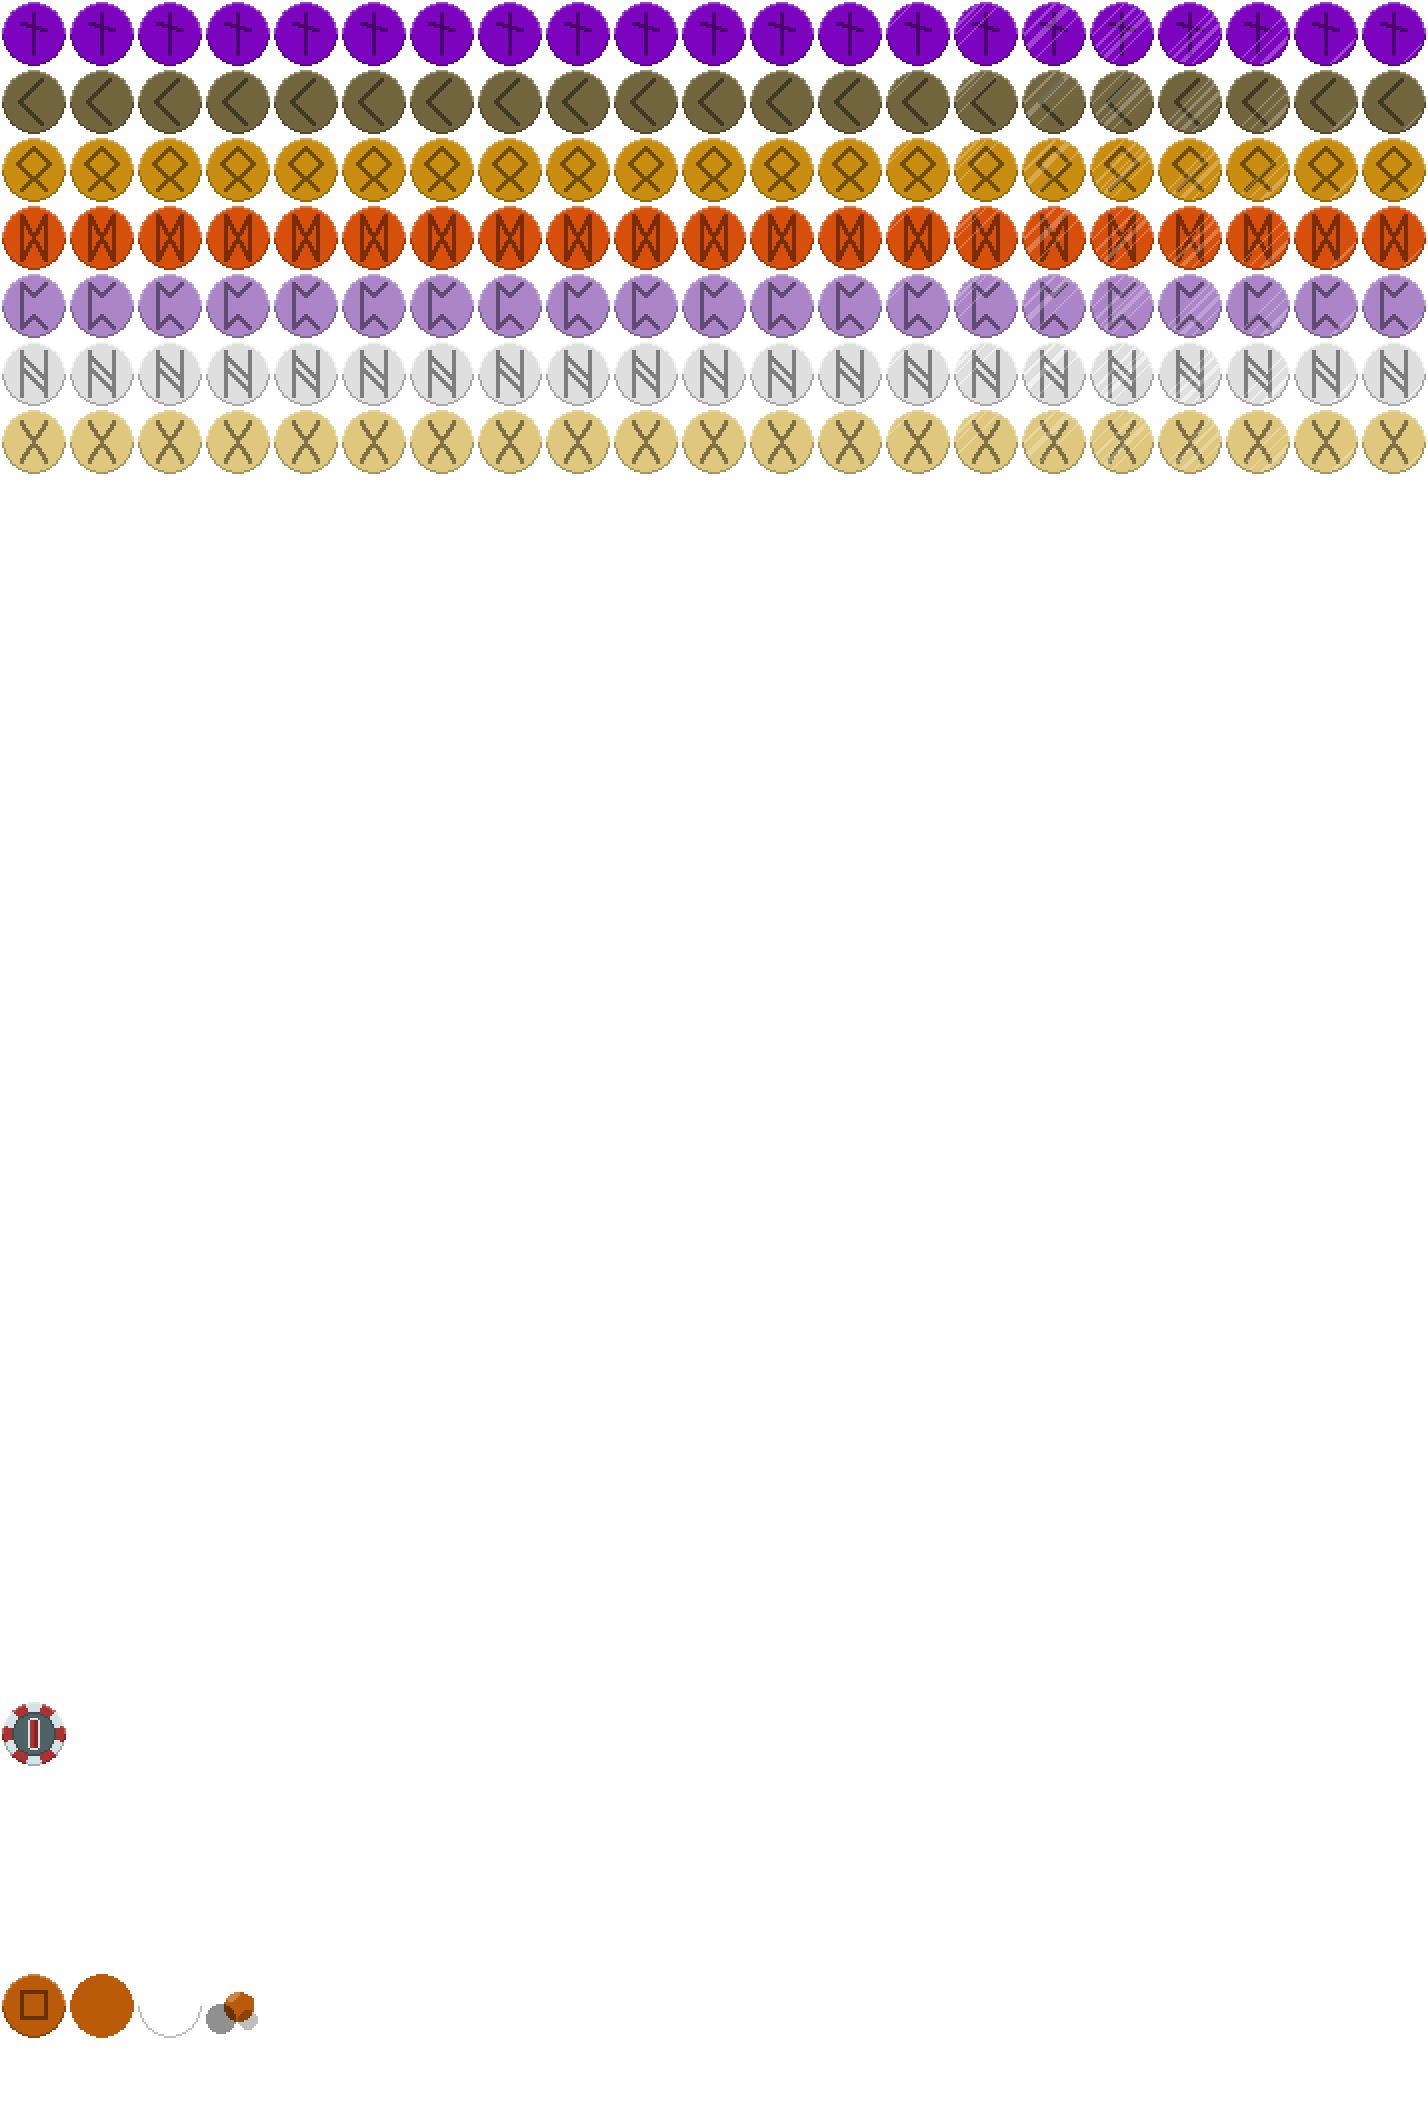
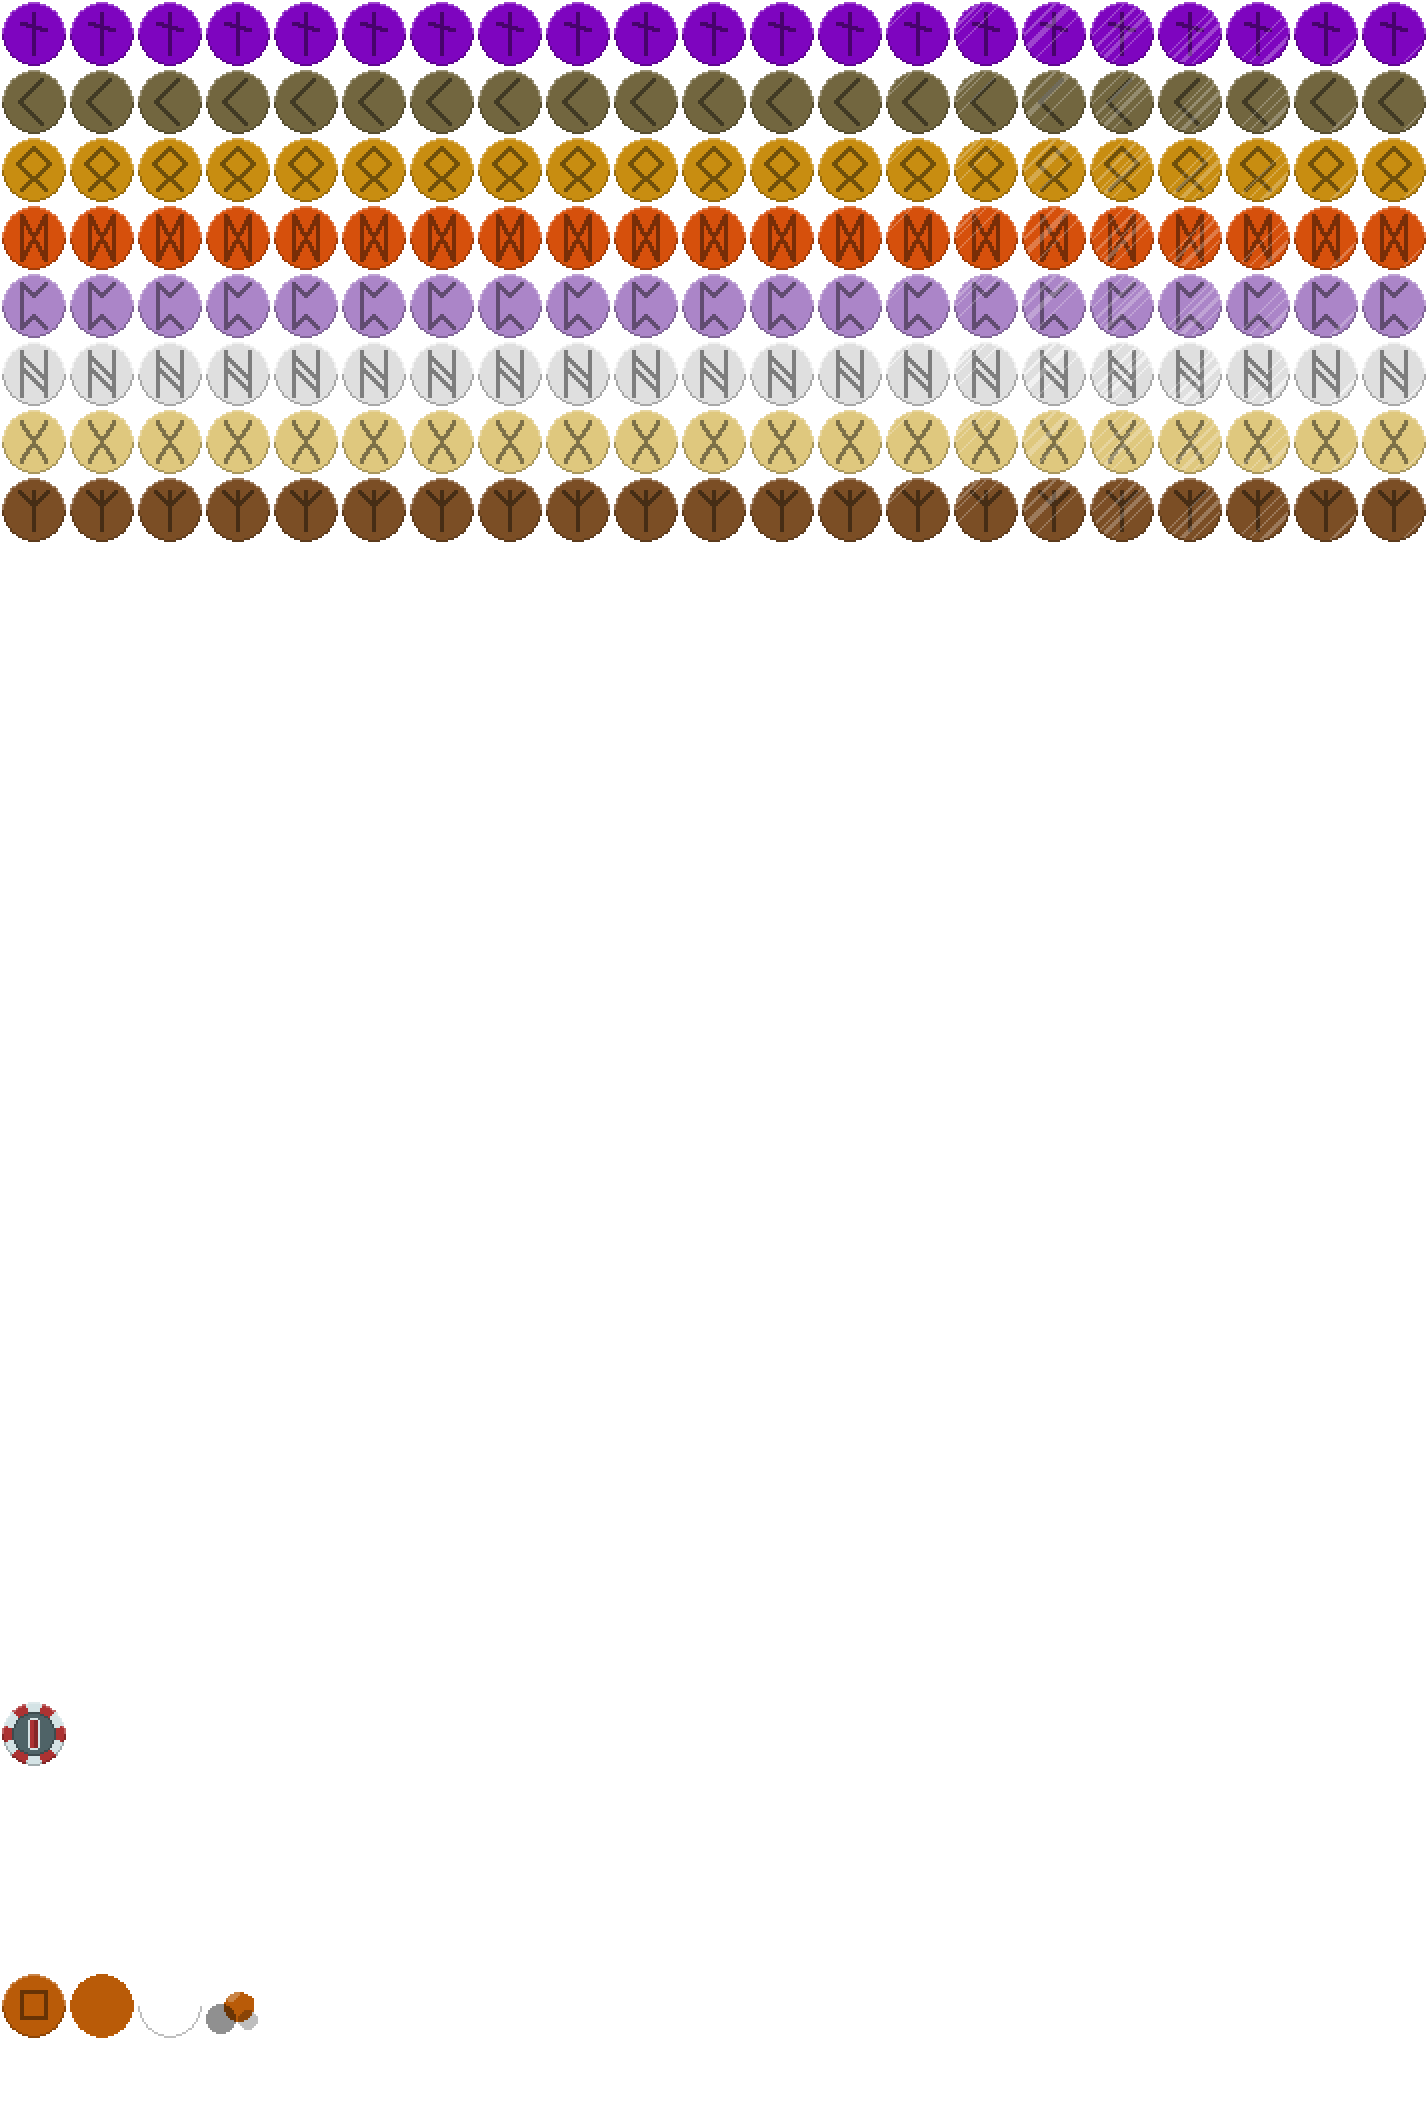
Add the Elk

Changed region(s): [[0.0, 0.2158, 1.0, 0.2775]]

diff --git a/web/addjokers.js b/web/addjokers.js
@@ -939,6 +939,14 @@ let blinds = [
     image_url: "img/bl/ascetic.png",
     rarity: "Boss Blind"
   },
+  {
+    name: "The Elk",
+    text: [
+      "Cards played previously this Ante are drawn face down",
+    ],
+    image_url: "img/bl/elk.png",
+    rarity: "Boss Blind"
+  },
   // {
   //   name: "Violet Vessel",
   //   text: [
